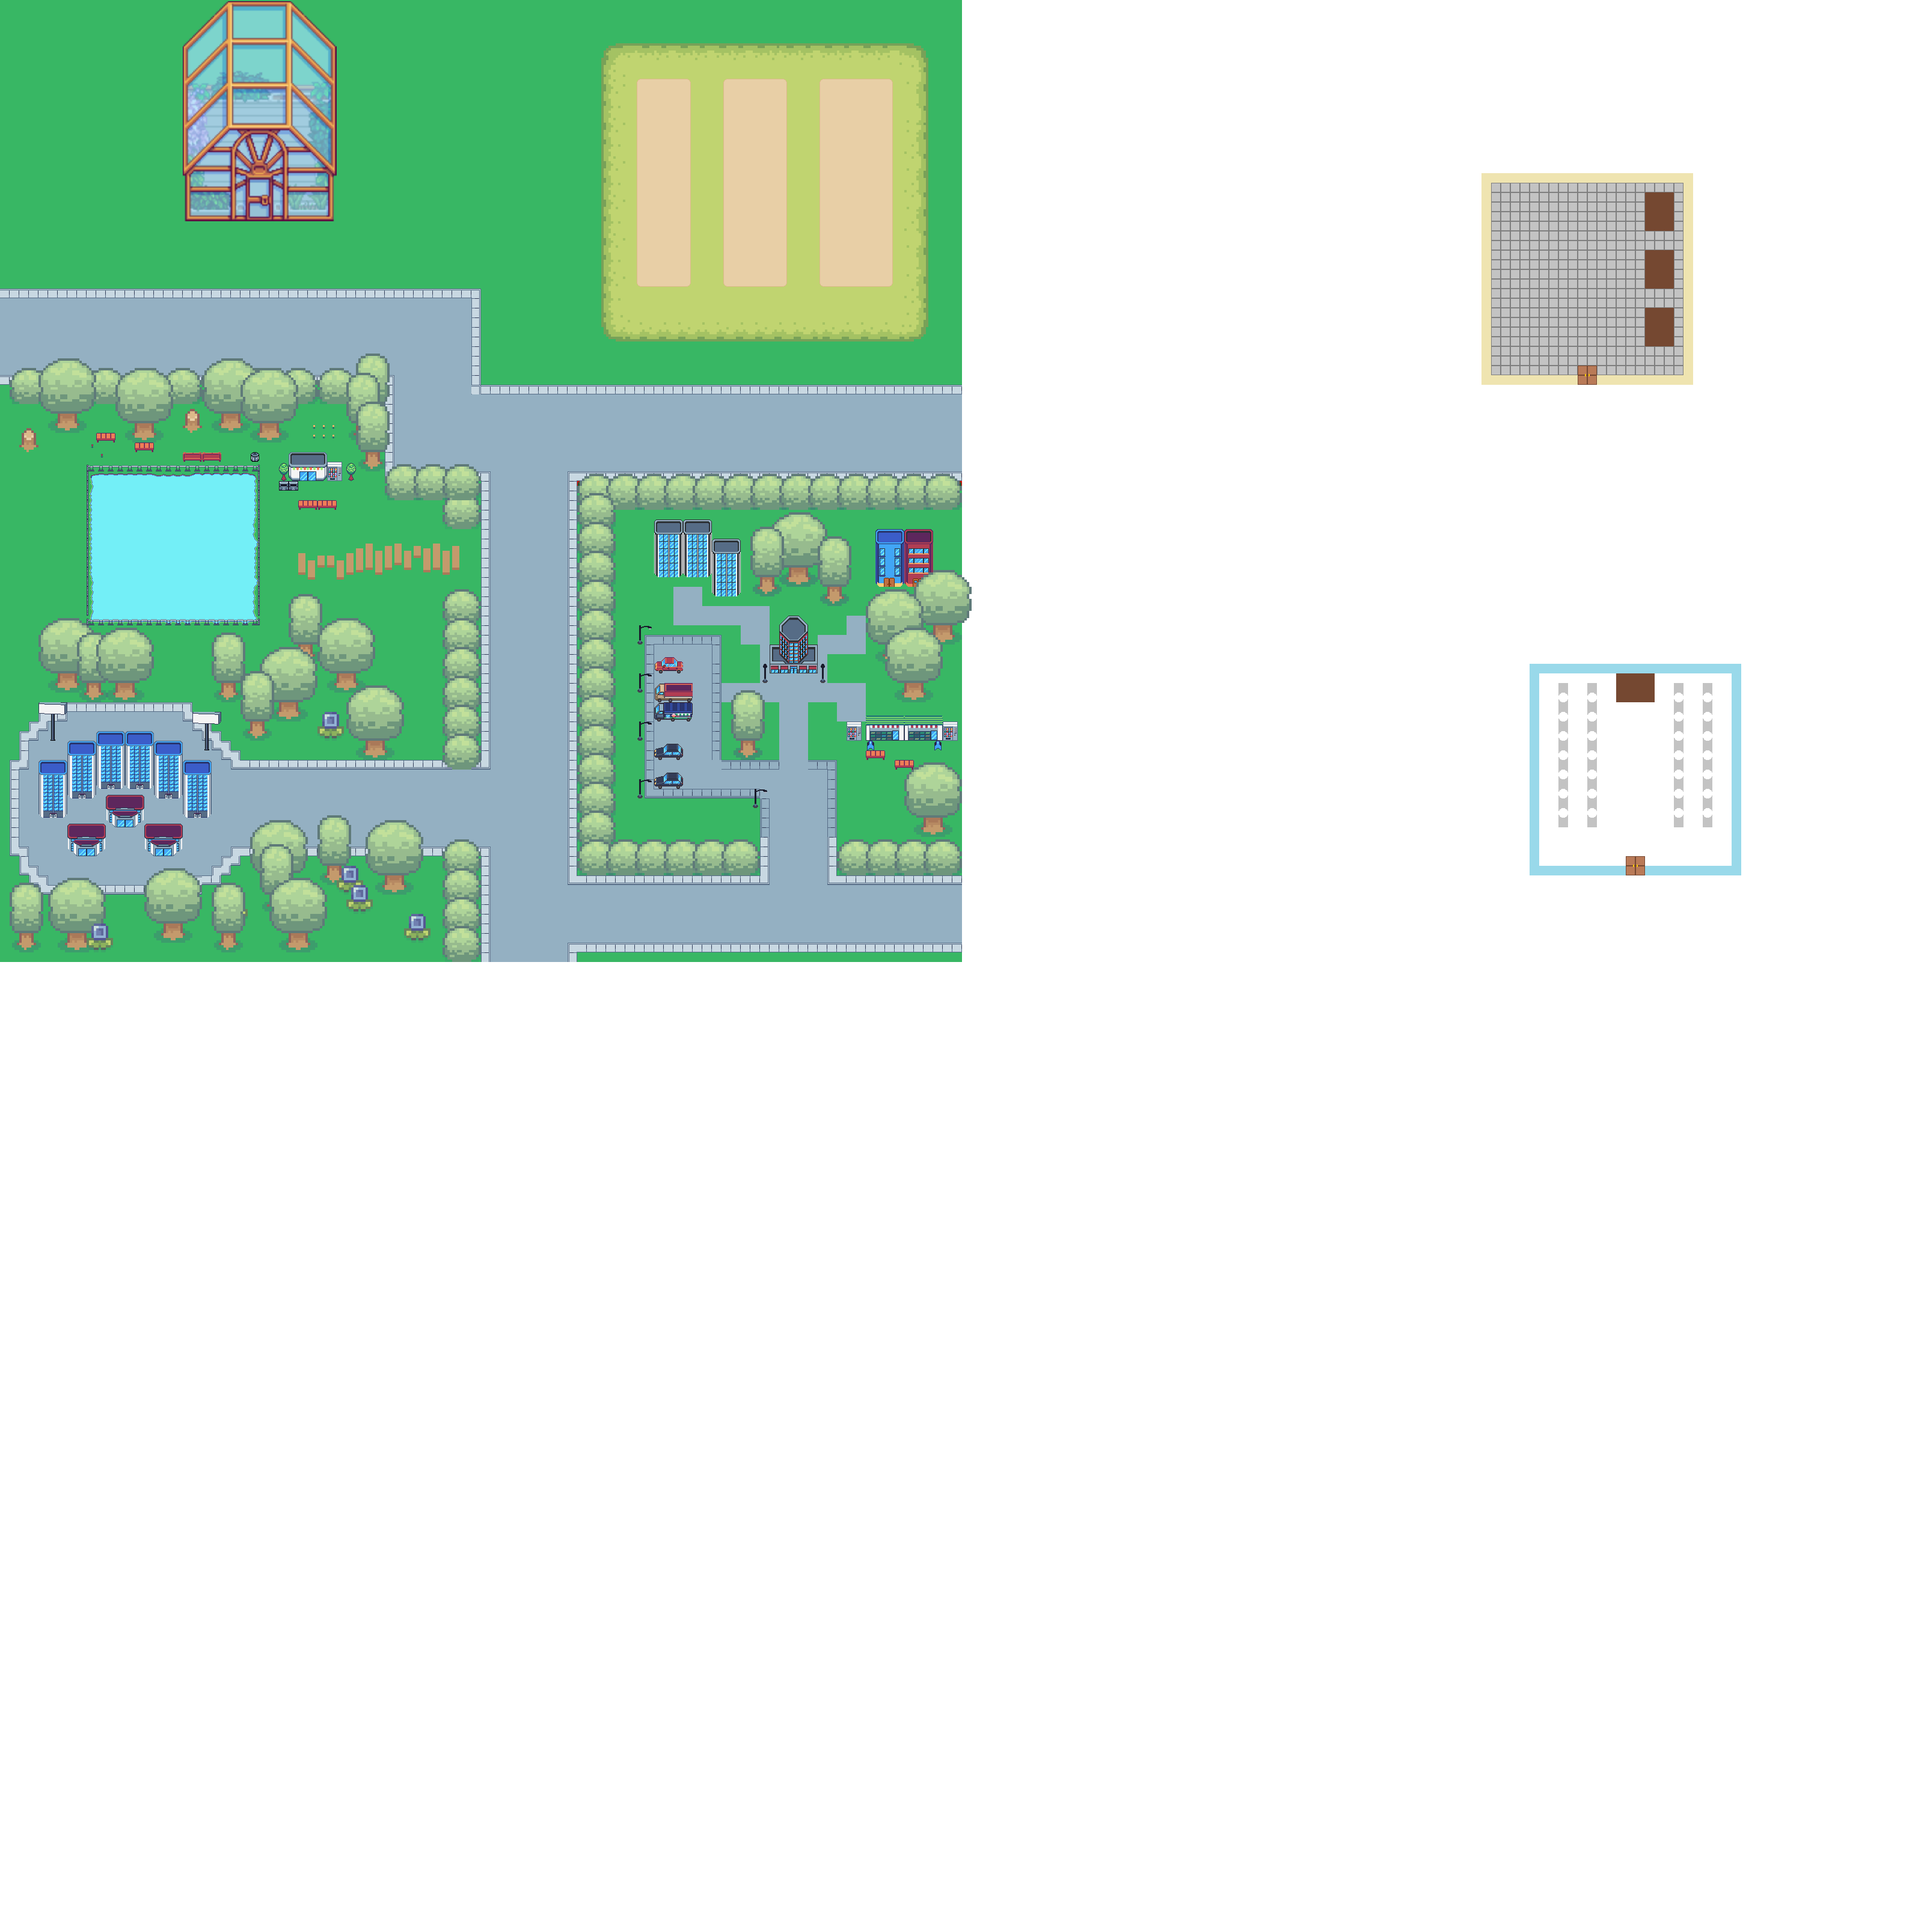
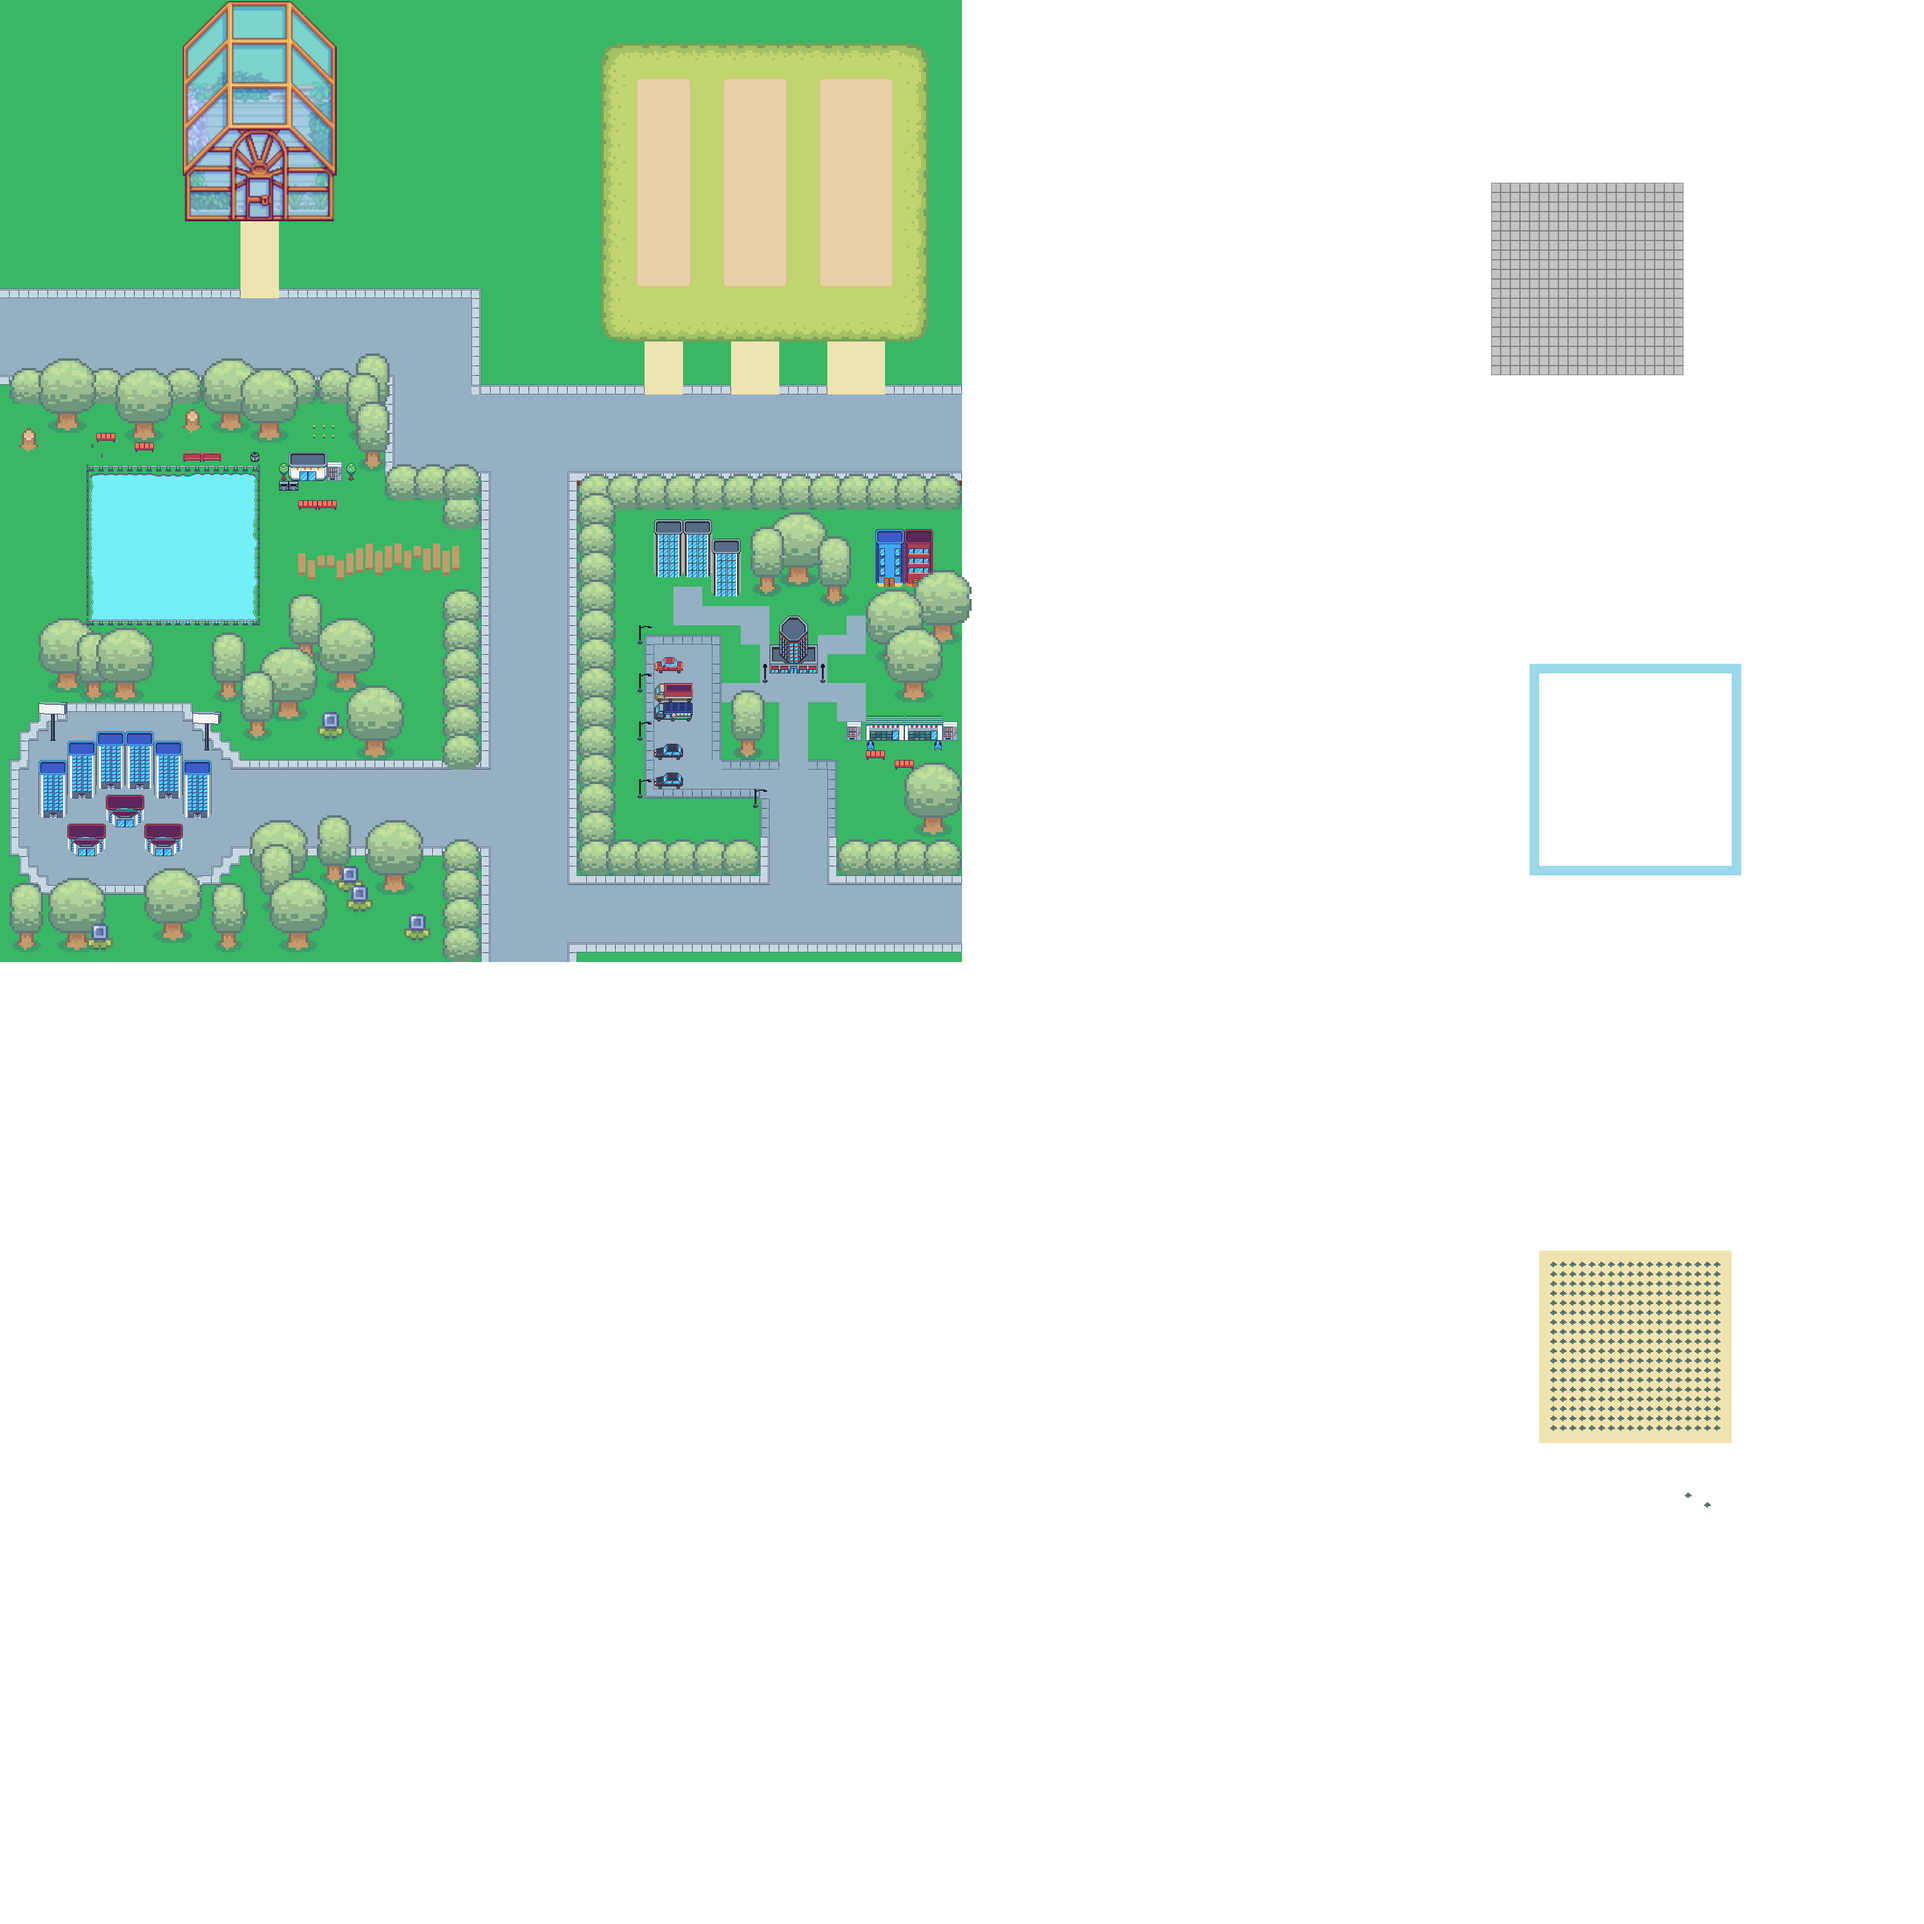
.

diff --git a/final_player/code/dashboard.py b/final_player/code/dashboard.py
@@ -362,6 +362,13 @@ class DashBoard:
         self.date_rect = text_surf.get_rect(center=(date_rect.centerx, date_rect.centery))
         self.display_surface.blit(text_surf, self.date_rect)
 
+    # 부안 필지별 토양수분 데이터 표시
+    def show_field_text(self, text_surf, left, top):
+        text_pos = pygame.Rect(left, top,
+                                (self.main_rect.width-self.space*2)/3, text_surf.get_height() + self.space*2)
+        self.text_pos = text_surf.get_rect(center=(text_pos.centerx, text_pos.centery))
+        self.display_surface.blit(text_surf, self.text_pos)
+
     def show_entry_fake(self, top):
         fake_surf = self.font.render('Live data is currently not available : The data being displayed is historical', False, 'red')
         fake_rect = pygame.Rect(SCREEN_WIDTH/2 -  fake_surf.get_width()/2, top,
@@ -646,30 +653,42 @@ class DashBoard:
                 # top = self.bg_rect.top + self.space*4 + self.date_rect.height + self.space
                 # self.show_entry_img(self.chamber_lux, top)
 
-
-        if self.player.pos_layer == 'buan':
+        if self.player.pos_layer == 'buan_api':
             if self.index == 0:
-                for title_index, title_surf in enumerate(self.title_surf):
-                    top = self.main_rect.top + title_index * (self.main_rect.height / 2 )
-                    self.show_entry(title_surf, top)
-
-                for title_index, surf in enumerate((self.tdata_surf, self.tcontrol_surf)):
-                    top = self.main_rect.top + title_index * (self.main_rect.height / 2 )  + self.space
-                    self.show_entry_p(surf, top)
-
-
-                for text_index, text_surf in enumerate([self.data_208_surf]):
-                    top = self.main_rect.top + self.space + self.ptitle_rect.height + self.space
-                    self.show_entry_pd(text_surf, top)
-
-                for text_index, text_surf in enumerate([self.text_surf]):
-                    top = self.main_rect.top + self.main_rect.height/2 + self.space + self.ptitle_rect.height + self.space
-                    self.show_entry_pd(text_surf, top)
+                pass
+                # for title_index, title_surf in enumerate(self.title_surf):
+                #     top = self.main_rect.top + title_index * (self.main_rect.height / 2 )
+                #     self.show_entry(title_surf, top)
+                #
+                # for title_index, surf in enumerate((self.tdata_surf, self.tcontrol_surf)):
+                #     top = self.main_rect.top + title_index * (self.main_rect.height / 2 )  + self.space
+                #     self.show_entry_p(surf, top)
+                #
+                #
+                # for text_index, text_surf in enumerate([self.data_208_surf]):
+                #     top = self.main_rect.top + self.space + self.ptitle_rect.height + self.space
+                #     self.show_entry_pd(text_surf, top)
+                #
+                # for text_index, text_surf in enumerate([self.text_surf]):
+                #     top = self.main_rect.top + self.main_rect.height/2 + self.space + self.ptitle_rect.height + self.space
+                #     self.show_entry_pd(text_surf, top)
 
 
             elif self.index == 1:
-                date_surf = self.date_surf[self.date_index]
-                top = self.bg_rect.top + self.space*4
+                for i in range(1,9): # 1, 2, 3, 4
+                    field_surf = f'Field {i}'
+                    if i <= 4:
+                        top = self.bg_rect.top + self.space*4
+                    else:
+                        top = self.bg_rect.top + (self.bg_rect.height)/2 + self.space*4
+
+                left = self.bg_rect.left + (i-1) * (self.bg_rect.width/4)
+                field_surf = Font
+                self.show_field_text(field_surf, left, top)
+
+
+                # date_surf = self.date_surf[self.date_index]
+                # top = self.bg_rect.top + self.space*4
                 self.show_entry_date(date_surf, top)
                 #
                 # self.chamber_t_h = f'..\graphics\chamber_graph\chamber_t&h.png'
@@ -677,13 +696,15 @@ class DashBoard:
                 # self.show_entry_img(self.chamber_t_h, top)
 
             elif self.index == 2:
-                date_surf = self.date_surf[self.date_index]
-                top = self.bg_rect.top + self.space*4
-                self.show_entry_date(date_surf, top)
+                pass
+                # date_surf = self.date_surf[self.date_index]
+                # top = self.bg_rect.top + self.space*4
+                # self.show_entry_date(date_surf, top)
 
                 # self.chamber_lux = f'..\graphics\chamber_graph\chamber_lux.png'
                 # top = self.bg_rect.top + self.space*4 + self.date_rect.height + self.space
                 # self.show_entry_img(self.chamber_lux, top)
+
 
 
 

diff --git a/final_player/code/level.py b/final_player/code/level.py
@@ -165,6 +165,12 @@ class Level:
 			if obj.name == 'buan':
 				Interaction((obj.x, obj.y), (obj.width, obj.height), self.interaction_sprites, obj.name)
 
+			if obj.name == 'buan_api':
+				Interaction((obj.x, obj.y), (obj.width, obj.height), self.interaction_sprites, obj.name)
+
+			if obj.name == 'buan_out':
+				Interaction((obj.x, obj.y), (obj.width, obj.height), self.interaction_sprites, obj.name)
+
 		# 	if obj.name == 'Enter_gh1':
 		# 		Interaction((obj.x, obj.y), (obj.width, obj.height), self.interaction_sprites, obj.name)
 		#
@@ -213,6 +219,10 @@ class Level:
 
 		for x, y, surf in tmx_data.get_layer_by_name('Grh Decoration').tiles():
 			Generic((x * TILE_SIZE, y * TILE_SIZE), surf, [self.all_sprites_map, self.collision_sprites])
+
+		for x, y, surf in tmx_data.get_layer_by_name('Buan Decoration').tiles():
+			Generic((x * TILE_SIZE, y * TILE_SIZE), surf, [self.all_sprites_map, self.collision_sprites])
+
 
 		Generic(
 			pos = (0, 0),

diff --git a/final_player/code/player.py b/final_player/code/player.py
@@ -261,8 +261,18 @@ class Player(pygame.sprite.Sprite):
 
 
 					if collided_interaction_sprite[0].name == "buan":
-						self.pos_layer = 'grh_api'
+						self.sleep = True
+						self.pos_layer = 'buan'
+						self.to_go = BUAN_ENTER[0], BUAN_ENTER[1]
+						self.before_go = self.pos.x, self.pos.y
+
+					if collided_interaction_sprite[0].name == "buan_api":
+						self.pos_layer = 'buan_api'
 						self.toggle_dashboard()
+
+					if collided_interaction_sprite[0].name == "buan_out":
+						self.sleep = True
+						self.to_go = self.before_go
 
 
 

diff --git a/final_player/code/realtime_data.py b/final_player/code/realtime_data.py
@@ -303,7 +303,7 @@ class Get_data:
         plt.savefig(os.path.join(ALL_PATH, f'graphics/chamber_graph/week_graph_t_h.png'))
 
     def draw_week_data(self):
-        df = pd.read_csv('C:\code\chamber-sf\\final_player\code\\fake_df.csv')
+        df = pd.read_csv('fake_df.csv')
 
         df = df[['Date&Time','Time', 'temp', 'hum', 'lux']].dropna()
         # df['Date'] = df['Date&Time'].str.split(' ').str[0]

diff --git a/final_player/code/settings.py b/final_player/code/settings.py
@@ -10,8 +10,8 @@ OFFSET_X = 0  # 필요에 따라 조정
 OFFSET_Y = 0  # 필요에 따라 조정
 
 LAB_ENTER = (2640, 560)
-
 GRH_ENTER = (2720, 1375)
+BUAN_ENTER = (2630, 2350)
 
 
 
